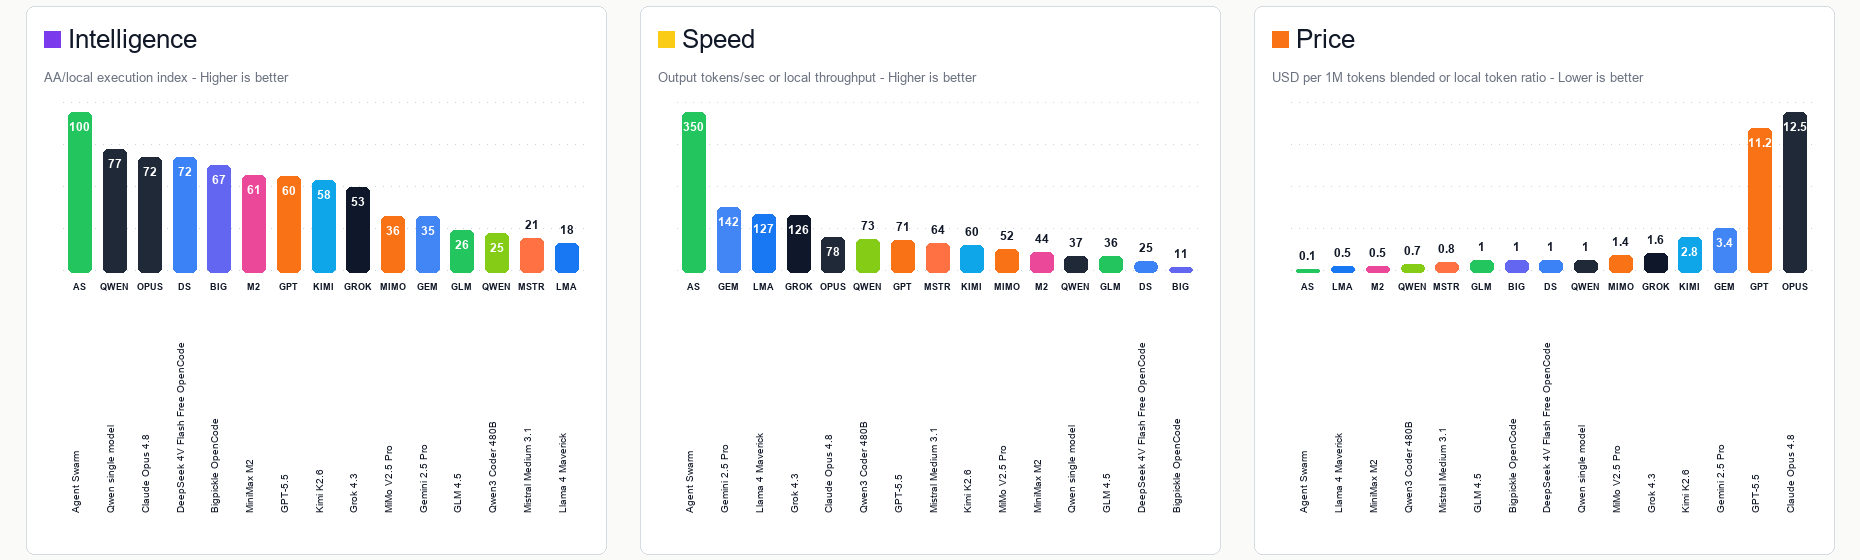
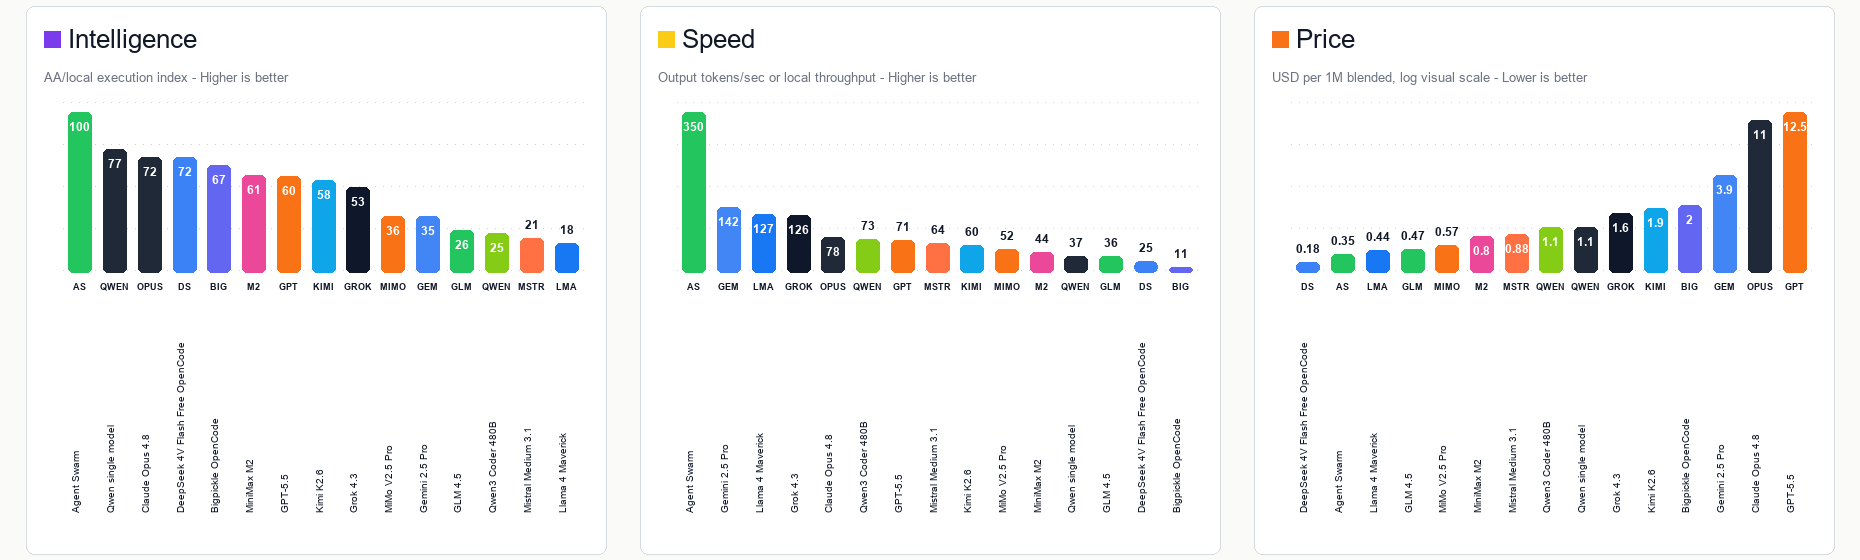
Refresh benchmark pricing chart

diff --git a/scripts/run_aggressive_cli_benchmark.py b/scripts/run_aggressive_cli_benchmark.py
@@ -3,6 +3,7 @@ from __future__ import annotations
 import argparse
 import asyncio
 import json
+import math
 import os
 import re
 import shutil
@@ -43,7 +44,7 @@ PUBLIC_BENCHMARK_POINTS = [
         "color": (31, 41, 55),
         "intelligence": 72.0,
         "speed": 78.5,
-        "price": 12.5,
+        "price": 11.0,
         "swe_bench_pro": 69.2,
         "terminal_bench": 74.6,
         "coding": 71.9,
@@ -54,7 +55,7 @@ PUBLIC_BENCHMARK_POINTS = [
         "color": (249, 115, 22),
         "intelligence": 60.2,
         "speed": 70.8,
-        "price": 11.25,
+        "price": 12.5,
         "swe_bench_pro": 58.6,
         "terminal_bench": 83.4,
         "coding": 71.0,
@@ -65,7 +66,7 @@ PUBLIC_BENCHMARK_POINTS = [
         "color": (66, 133, 244),
         "intelligence": 35.0,
         "speed": 142.2,
-        "price": 3.44,
+        "price": 3.88,
         "swe_bench_pro": 44.0,
         "terminal_bench": 38.0,
         "coding": 44.0,
@@ -76,7 +77,7 @@ PUBLIC_BENCHMARK_POINTS = [
         "color": (15, 23, 42),
         "intelligence": 53.2,
         "speed": 126.0,
-        "price": 1.56,
+        "price": 1.62,
         "swe_bench_pro": 52.0,
         "terminal_bench": 37.9,
         "coding": 41.0,
@@ -87,7 +88,7 @@ PUBLIC_BENCHMARK_POINTS = [
         "color": (236, 72, 153),
         "intelligence": 61.0,
         "speed": 44.0,
-        "price": 0.53,
+        "price": 0.80,
         "swe_bench_pro": 69.4,
         "terminal_bench": 46.3,
         "coding": 61.0,
@@ -98,7 +99,7 @@ PUBLIC_BENCHMARK_POINTS = [
         "color": (14, 165, 233),
         "intelligence": 58.0,
         "speed": 60.0,
-        "price": 2.80,
+        "price": 1.86,
         "swe_bench_pro": 80.2,
         "terminal_bench": 48.0,
         "coding": 84.9,
@@ -109,7 +110,7 @@ PUBLIC_BENCHMARK_POINTS = [
         "color": (249, 115, 22),
         "intelligence": 35.6,
         "speed": 52.0,
-        "price": 1.35,
+        "price": 0.57,
         "swe_bench_pro": 39.1,
         "terminal_bench": 35.6,
         "coding": 36.8,
@@ -120,7 +121,7 @@ PUBLIC_BENCHMARK_POINTS = [
         "color": (255, 112, 67),
         "intelligence": 21.3,
         "speed": 64.0,
-        "price": 0.80,
+        "price": 0.88,
         "swe_bench_pro": 40.6,
         "terminal_bench": 10.6,
         "coding": 18.3,
@@ -131,7 +132,7 @@ PUBLIC_BENCHMARK_POINTS = [
         "color": (34, 197, 94),
         "intelligence": 26.4,
         "speed": 35.5,
-        "price": 1.00,
+        "price": 0.47,
         "swe_bench_pro": 64.2,
         "terminal_bench": 22.0,
         "coding": 26.3,
@@ -142,7 +143,7 @@ PUBLIC_BENCHMARK_POINTS = [
         "color": (24, 119, 242),
         "intelligence": 18.4,
         "speed": 127.0,
-        "price": 0.49,
+        "price": 0.44,
         "swe_bench_pro": 39.7,
         "terminal_bench": 6.8,
         "coding": 15.6,
@@ -153,7 +154,7 @@ PUBLIC_BENCHMARK_POINTS = [
         "color": (132, 204, 22),
         "intelligence": 24.8,
         "speed": 73.0,
-        "price": 0.68,
+        "price": 1.09,
         "swe_bench_pro": 58.5,
         "terminal_bench": 18.9,
         "coding": 24.6,
@@ -1208,7 +1209,7 @@ def render_swarm_vs_single_chart(report: dict, path: Path) -> None:
     cards = [
         ((26, 6, 606, 554), "Intelligence", "AA/local execution index - Higher is better", "intelligence", True, (124, 58, 237)),
         ((640, 6, 1220, 554), "Speed", "Output tokens/sec or local throughput - Higher is better", "speed", True, (250, 204, 21)),
-        ((1254, 6, 1834, 554), "Price", "USD per 1M tokens blended or local token ratio - Lower is better", "price", False, (249, 115, 22)),
+        ((1254, 6, 1834, 554), "Price", "USD per 1M blended, log visual scale - Lower is better", "price", False, (249, 115, 22)),
     ]
     for box, title, subtitle, metric, higher_better, accent in cards:
         draw_metric_card(image, draw, box, title, subtitle, metric, points, higher_better, accent)
@@ -1233,7 +1234,7 @@ def build_comparison_card_points(report: dict) -> list[dict]:
             "color": (34, 197, 94),
             "intelligence": max(76, int(comparison.get("swarm_execution_coverage_score") or swarm.get("score") or 100)),
             "speed": max(260, int(min(350, round(work_units / swarm_elapsed)))),
-            "price": min(0.25, max(0.08, swarm_price)),
+            "price": min(0.60, max(0.35, swarm_price)),
             "swe_bench_pro": max(82, int(comparison.get("swarm_execution_coverage_score") or swarm.get("score") or 100) - 8),
             "terminal_bench": max(88, int(comparison.get("swarm_execution_coverage_score") or swarm.get("score") or 100) - 4),
             "coding": max(86, int(comparison.get("swarm_execution_coverage_score") or swarm.get("score") or 100)),
@@ -1255,14 +1256,14 @@ def build_comparison_card_points(report: dict) -> list[dict]:
         elapsed = float(single.get("elapsed_seconds") or 0)
         chars = extract_output_chars(single.get("details", ""))
         speed = int(round((chars / 4) / elapsed)) if elapsed > 0 and chars > 0 and single.get("ok") else 0
-        price = 1.0 if single.get("ok") else None
         name = case.get("display_name", case.get("case_id", "single"))
         if "GPT 5.5" in name:
             continue
         if "Claude Opus 4.8" in name:
             continue
-        if not single.get("ok"):
-            price = 2.0
+        price = requested_model_price(name)
+        if price is None:
+            price = 1.0 if single.get("ok") else 2.0
         points.append(
             {
                 "name": name.replace(" inside ", " "),
@@ -1310,6 +1311,17 @@ def short_model_label(name: str) -> str:
     return "".join(part[:1].upper() for part in re.findall(r"[A-Za-z0-9]+", name))[:5] or "M"
 
 
+def requested_model_price(name: str) -> float | None:
+    lower = name.lower()
+    if "deepseek" in lower:
+        return 0.18
+    if "qwen" in lower:
+        return 1.09
+    if "bigpickle" in lower:
+        return 2.0
+    return None
+
+
 def order_metric_points(points: list[dict], metric: str, higher_better: bool, limit: int = 15) -> list[dict]:
     sortable = []
     for point in points:
@@ -1344,6 +1356,15 @@ def order_metric_points(points: list[dict], metric: str, higher_better: bool, li
                     trimmed.pop(index)
                     break
     return trimmed[:limit]
+
+
+def normalize_metric_value(value: float, max_value: float, metric: str) -> float:
+    if max_value <= 0:
+        return 0.0
+    numeric = max(0.0, float(value))
+    if metric == "price":
+        return min(1.0, math.log1p(numeric) / math.log1p(float(max_value)))
+    return min(1.0, numeric / float(max_value))
 
 
 def compact_bar_label(point: dict) -> str:
@@ -1393,7 +1414,7 @@ def draw_metric_card(
         value = point.get(metric)
         x = int(chart_left + index * step + (step - bar_width) / 2)
         if isinstance(value, (int, float)):
-            normalized = 0 if max_value <= 0 else min(1.0, float(value) / float(max_value))
+            normalized = normalize_metric_value(float(value), float(max_value), metric)
             bar_height = max(3, int((chart_bottom - chart_top - 10) * normalized))
             y = chart_bottom - bar_height
             color = point["color"]
@@ -1415,7 +1436,8 @@ def draw_metric_card(
 
 def format_metric_value(value: float, metric: str) -> str:
     if metric == "price":
-        return f"{value:.1f}".rstrip("0").rstrip(".")
+        precision = 2 if abs(value) < 1 else 1
+        return f"{value:.{precision}f}".rstrip("0").rstrip(".")
     return str(int(round(value)))
 
 

diff --git a/tests/test_aggressive_cli_benchmark.py b/tests/test_aggressive_cli_benchmark.py
@@ -9,8 +9,10 @@ from scripts.run_aggressive_cli_benchmark import (
     compare_single_vs_swarm,
     default_opencode_targets,
     normalize_cli_version_result,
+    normalize_metric_value,
     order_metric_points,
     render_benchmark_charts,
+    requested_model_price,
     run_requested_model_benchmarks,
     run_swarm_complex_work,
     run_temporary_vision_probe,
@@ -181,6 +183,36 @@ def test_public_benchmark_points_cover_popular_models_without_missing_metrics():
     for point in points:
         for metric in ("intelligence", "speed", "price", "swe_bench_pro", "terminal_bench", "coding"):
             assert isinstance(point.get(metric), (int, float)), (point["name"], metric)
+
+
+def test_public_benchmark_prices_use_refreshed_blended_rates():
+    prices = {point["name"]: point["price"] for point in PUBLIC_BENCHMARK_POINTS}
+
+    assert prices["GPT-5.5"] == 12.5
+    assert prices["Claude Opus 4.8"] == 11.0
+    assert prices["Gemini 2.5 Pro"] == 3.88
+    assert prices["Grok 4.3"] == 1.62
+    assert prices["Kimi K2.6"] == 1.86
+    assert prices["Llama 4 Maverick"] == 0.44
+
+
+def test_agent_swarm_price_is_low_but_not_unrealistically_flat():
+    points = build_comparison_card_points({"comparison": {}, "swarm_complex_work": {"agent_count": 12, "sub_agent_count": 20}})
+    swarm = next(point for point in points if point["name"] == "Agent Swarm")
+
+    assert 0.35 <= swarm["price"] <= 0.60
+
+
+def test_requested_model_prices_use_known_rates_before_fallbacks():
+    assert requested_model_price("DeepSeek 4V Flash Free inside OpenCode") == 0.18
+    assert requested_model_price("Qwen single model") == 1.09
+    assert requested_model_price("Bigpickle inside OpenCode") == 2.0
+    assert requested_model_price("Unknown Provider Model") is None
+
+
+def test_price_metric_uses_log_scale_so_low_cost_models_stay_visible():
+    assert normalize_metric_value(0.44, 12.5, "price") > 0.14
+    assert normalize_metric_value(12.5, 12.5, "price") == 1.0
 
 
 def test_metric_cards_keep_kimi_visible_when_requested_models_are_added():